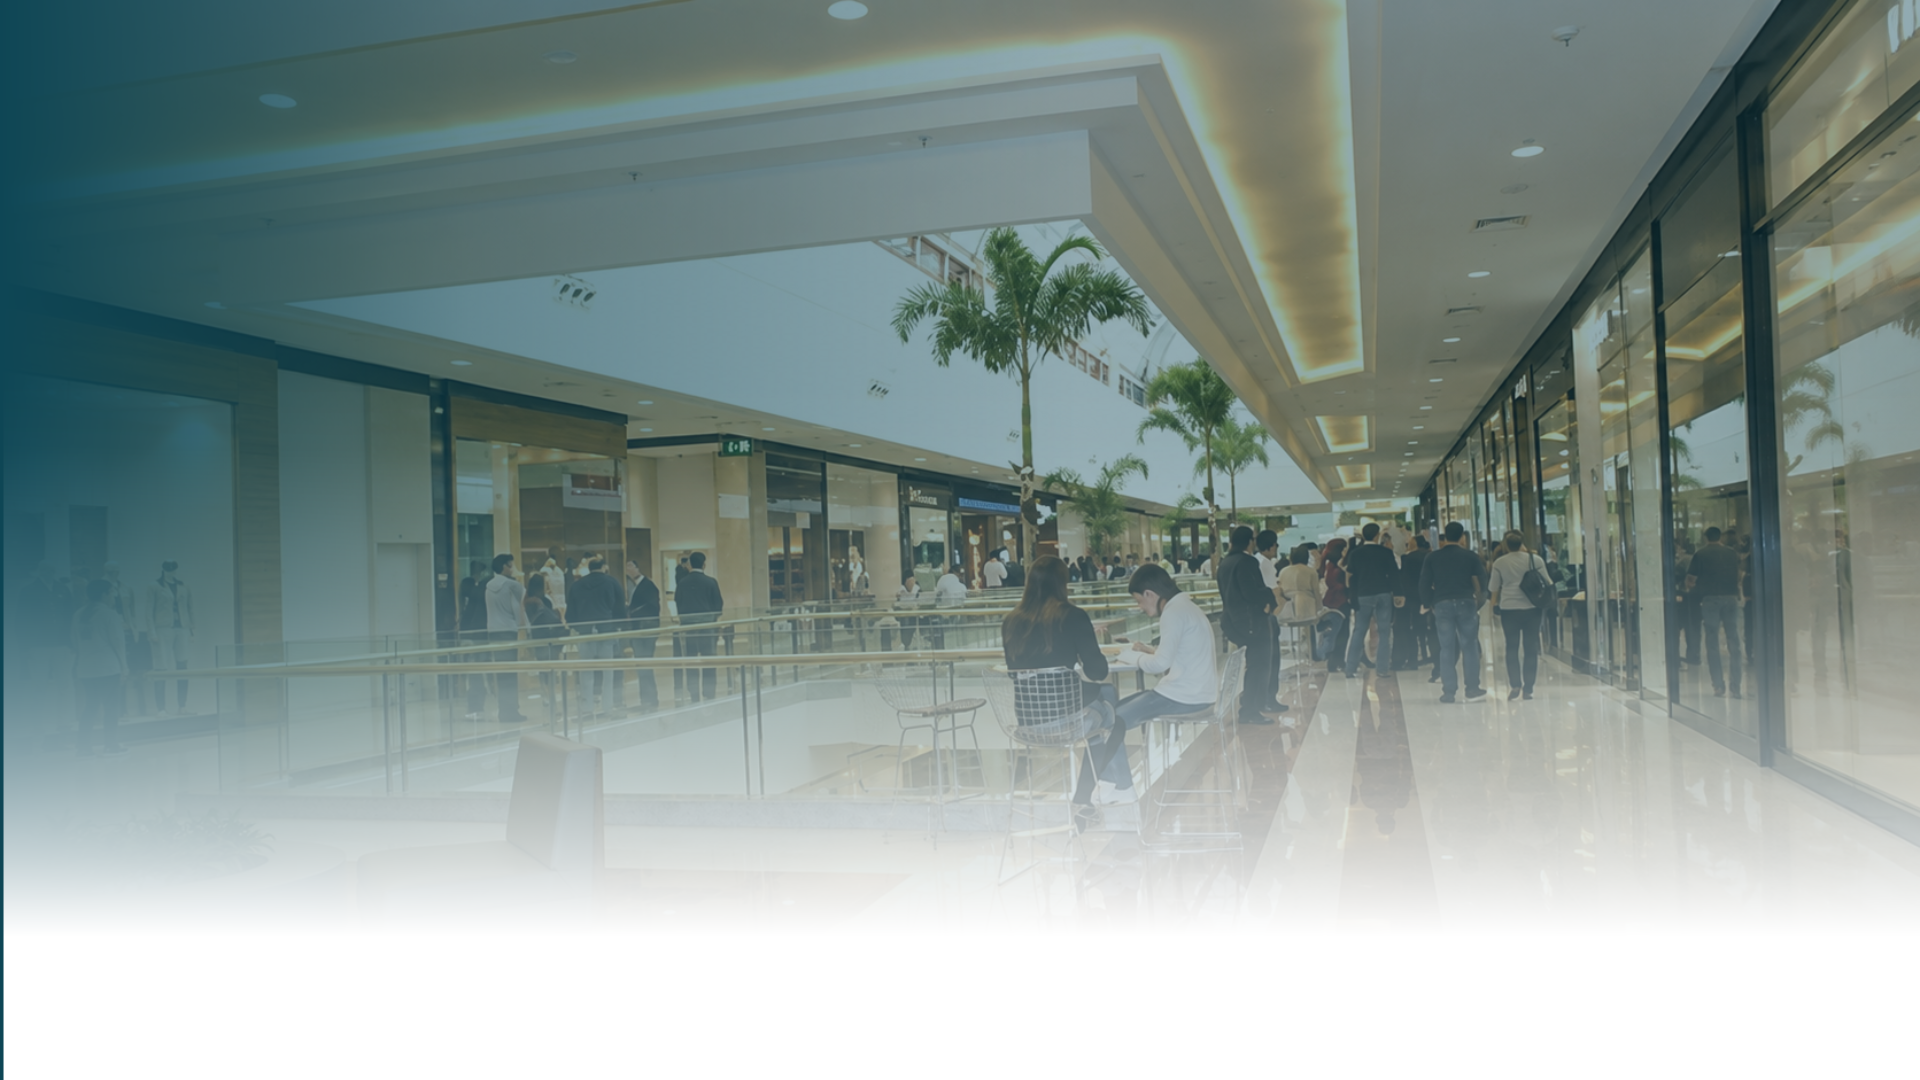
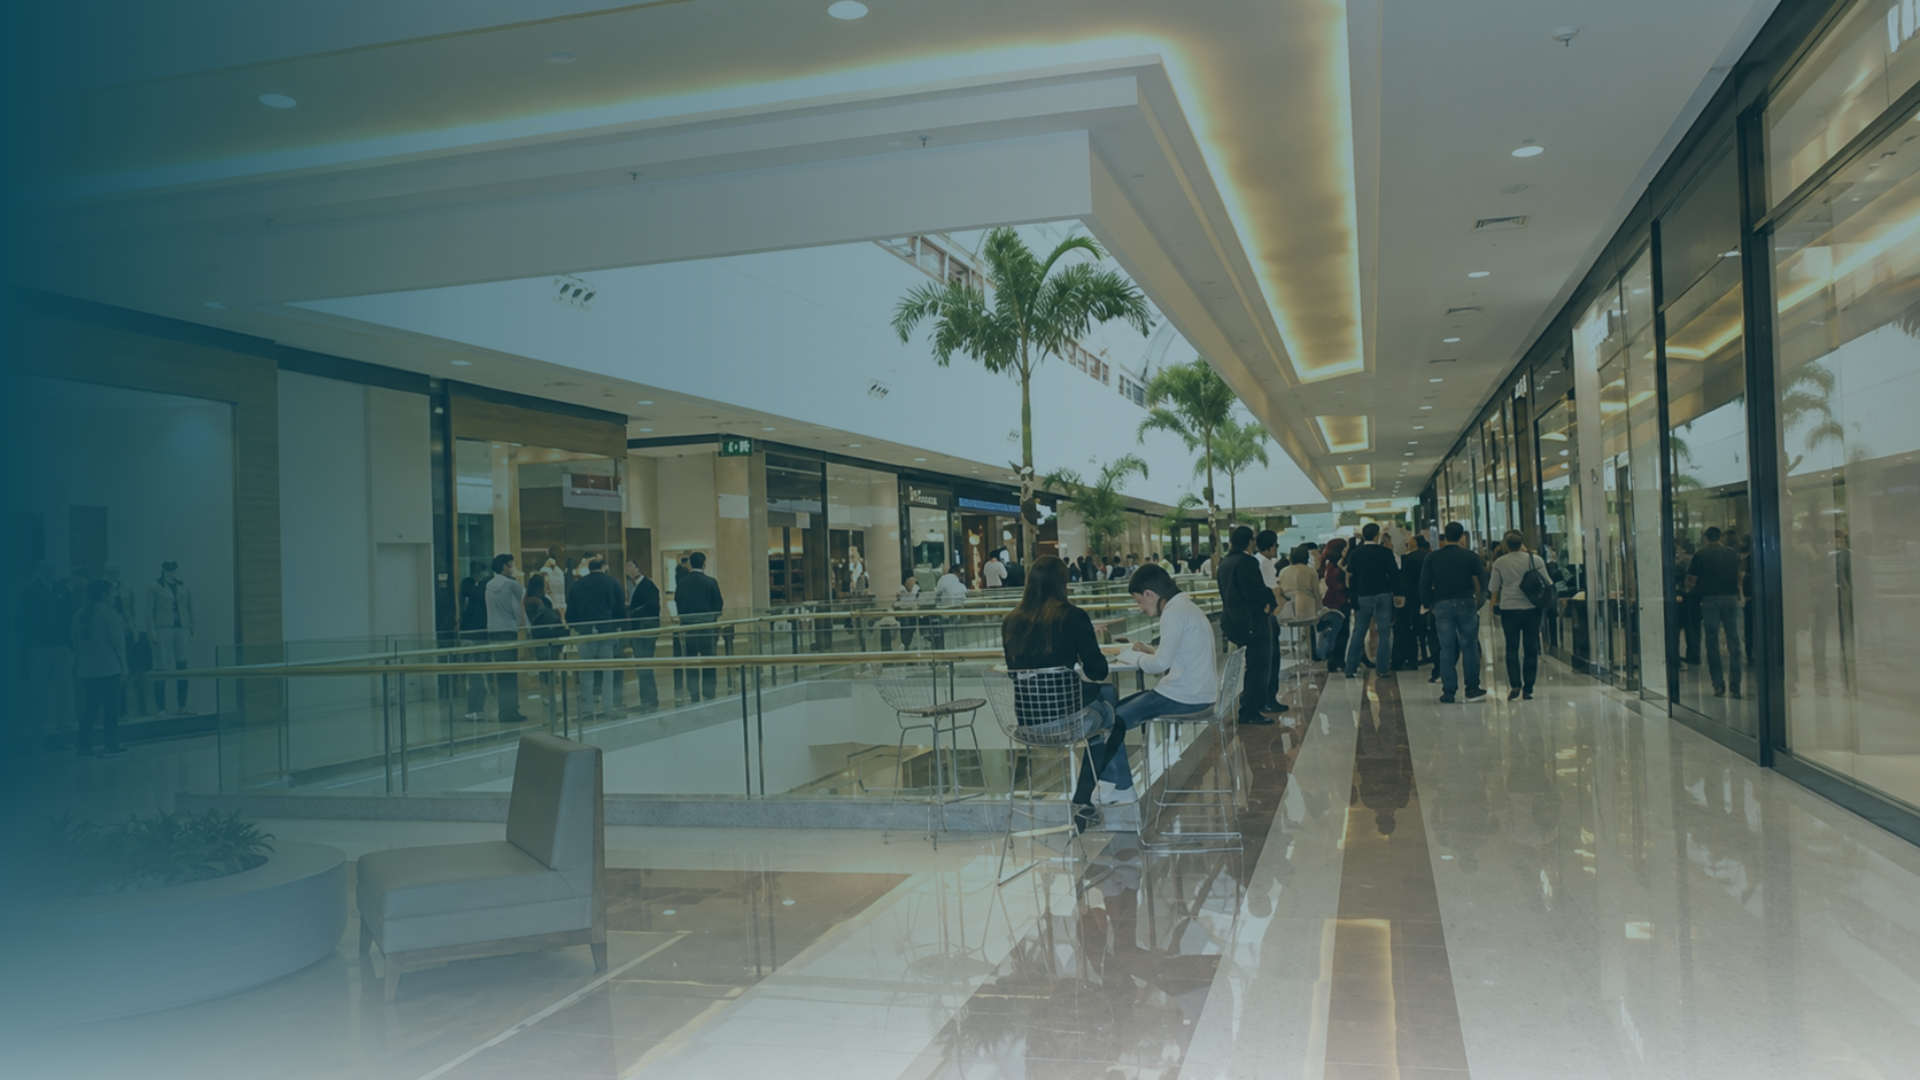
UC15

diff --git a/Aula05/Atividade01/css/style.css b/Aula05/Atividade01/css/style.css
@@ -42,7 +42,7 @@ img {
     width: 80%;
     max-width: 1000px;
     border-radius: 200px;
-    background-color: #ffffffc2;
+    background-color: #ffffffaf;
     backdrop-filter: blur(8px);
 }
 
@@ -64,6 +64,12 @@ img {
     color: #535353;
     font-weight: 550;
     letter-spacing: -0.5px;
+    transition: all 0.15s ease;
+}
+
+.pagina-inicial-cabecalho-nav a:hover {
+    color: #0B4656;
+    transition: all 0.15s ease;
 }
 
 .pagina-inicial-cabecalho-botao {
@@ -74,8 +80,19 @@ img {
     font-weight: 500;
     letter-spacing: 0px;
     font-size: 12px;
+    border: 1px solid #0B4656;
     color: #ffffff;
     text-decoration: none;
+    transition: all 0.15s ease;
+}
+
+.pagina-inicial-cabecalho-botao:hover {
+    cursor: pointer;
+    background-color: #ffffff00;
+    color: #0B4656;
+    border: 1px solid #0B4656;
+    transform: scale(1.05);
+    transition: all 0.15s ease;
 }
 
 .pagina-inicial-conteudo {
@@ -84,7 +101,7 @@ img {
     width: 80%;
     display: flex;
     flex-direction: column;
-    padding: 100px 200px;
+    padding: 200px;
     margin-top: 100px;
 }
 
@@ -93,7 +110,7 @@ img {
     line-height: 0.5;
     font-weight: 500;
     color: #ffffff;
-    font-size: 120px;
+    font-size: 150px;
     margin-bottom: 20px;
 }
 
@@ -102,7 +119,7 @@ img {
     line-height: 1;
     letter-spacing: -1px;
     font-weight: 700;
-    font-size: 100px;
+    font-size: 120px;
     color: #efff93cc;
     margin-bottom: 20px;
 }
@@ -111,7 +128,7 @@ img {
     line-height: 1.2;
     font-family: "Google Sans", sans-serif;
     font-weight: 400;
-    font-size: 20px;
+    font-size: 24px;
     color: #ffffff;
     margin-bottom: 20px;
 }
@@ -131,16 +148,34 @@ img {
     border: 1px solid #ffffff;
     font-size: 20px;
     text-decoration: none;
-}
-
-.pagina-inicial-conteudo-botao-secundario {
-    background-color: #ffffff;
-    color: #0B4656;
+    transition: all 0.15s ease;
+    backdrop-filter: blur(0px);
+    opacity: 1;
 }
 
 .pagina-inicial-conteudo-botao-principal {
     background-color: #ffffff00;
     color: #ffffff;
+}
+
+.pagina-inicial-conteudo-botao-principal:hover {
+    cursor: pointer;
+    background-color: #ffffff;
+    color: #0B4656;
+    transform: scale(1.05);
+    transition: all 0.15s ease;
+}
+
+.pagina-inicial-conteudo-botao-secundario {
+    background-color: #ffffff;
+    color: #0B4656;
+    
+}
+
+.pagina-inicial-conteudo-botao-secundario:hover {
+    cursor: pointer;
+    transform: scale(1.05);
+    transition: all 0.15s ease;
 }
 
 .americana-shopping-descricao {

diff --git a/Aula05/Atividade01/index.html b/Aula05/Atividade01/index.html
@@ -4,6 +4,7 @@
     <meta charset="UTF-8">
     <meta name="viewport" content="width=device-width, initial-scale=1.0">
     <link rel="stylesheet" href="css/style.css">
+    <link rel="shortcut icon" href="img/Icon Americana Shopping.png" type="image/x-icon">
     <title>Shopping Americana</title>
 </head>
 <body>
@@ -17,6 +18,7 @@
                 <ul>
                     <li><a href="#">Lojas</a></li>
                     <li><a href="#">Alimentação</a></li>
+                    <li><a href="#">Início</a></li>
                     <li><a href="#">Cinema</a></li>
                 </ul>
             </nav>
@@ -29,7 +31,7 @@
 
             <h1>Americana</h1>
             <h2>Shopping.</h2>
-            <p>lorem ipsum dolor sit amet, consectetur adipiscing elit. Sed do eiusmod tempor incididunt ut labore et dolore magna aliqua.</p>
+            <p>É o mais novo e moderno centro de compras da cidade, projetado com um conceito de estilo americano a céu aberto (open mall).</p>
             
             <div class="pagina-inicial-conteudo-botoes">
                 <button class="pagina-inicial-conteudo-botao-principal">
@@ -67,6 +69,21 @@
             </div>
         </section>
         <img class="americana-shopping-imagem" src="../Atividade01/img/Americana shopping imagem.png" alt="Imagem do shopping">
+    </div>
+
+    <div class="americana-shopping-lojas">
+        <div class="americana-shopping-lojas-hero">
+            <div class="americana-shopping-lojas-hero-legenda"> 
+                <h2>Lojas</h2>
+                <h3>01</h3>
+            </div>
+            <h1>Suas lojas favoritas. Aqui.</h1>
+            <p>lorem ipsum dolor sit amet, consectetur adipiscing elit.</p>
+        </div>
+        <hr>
+        <div>
+
+        </div>
     </div>
 
 </body>
